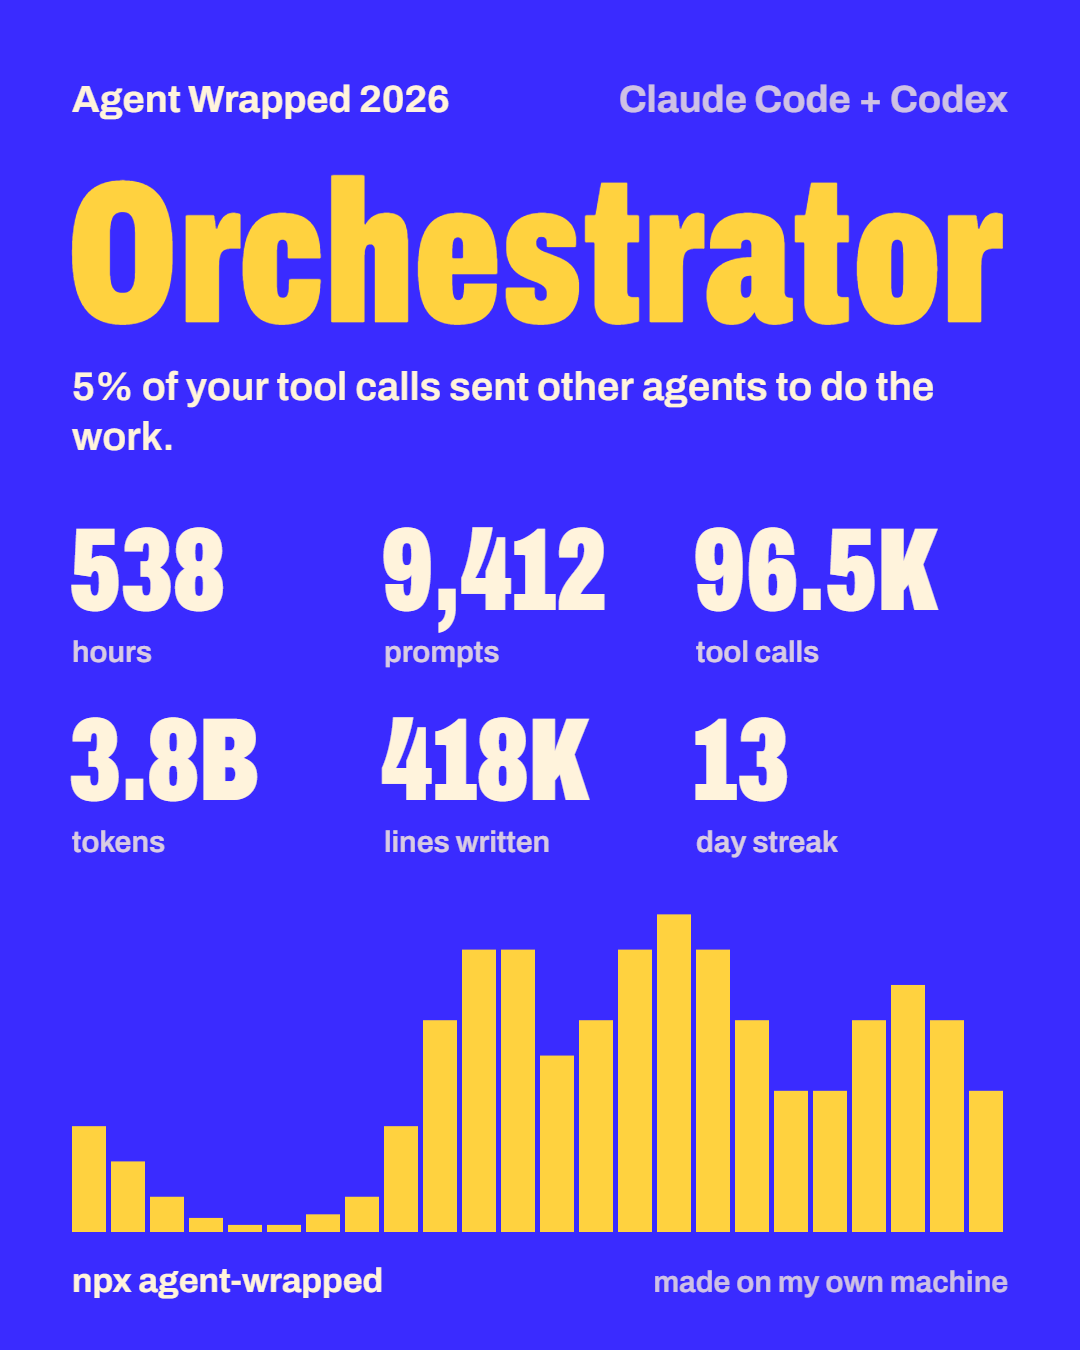
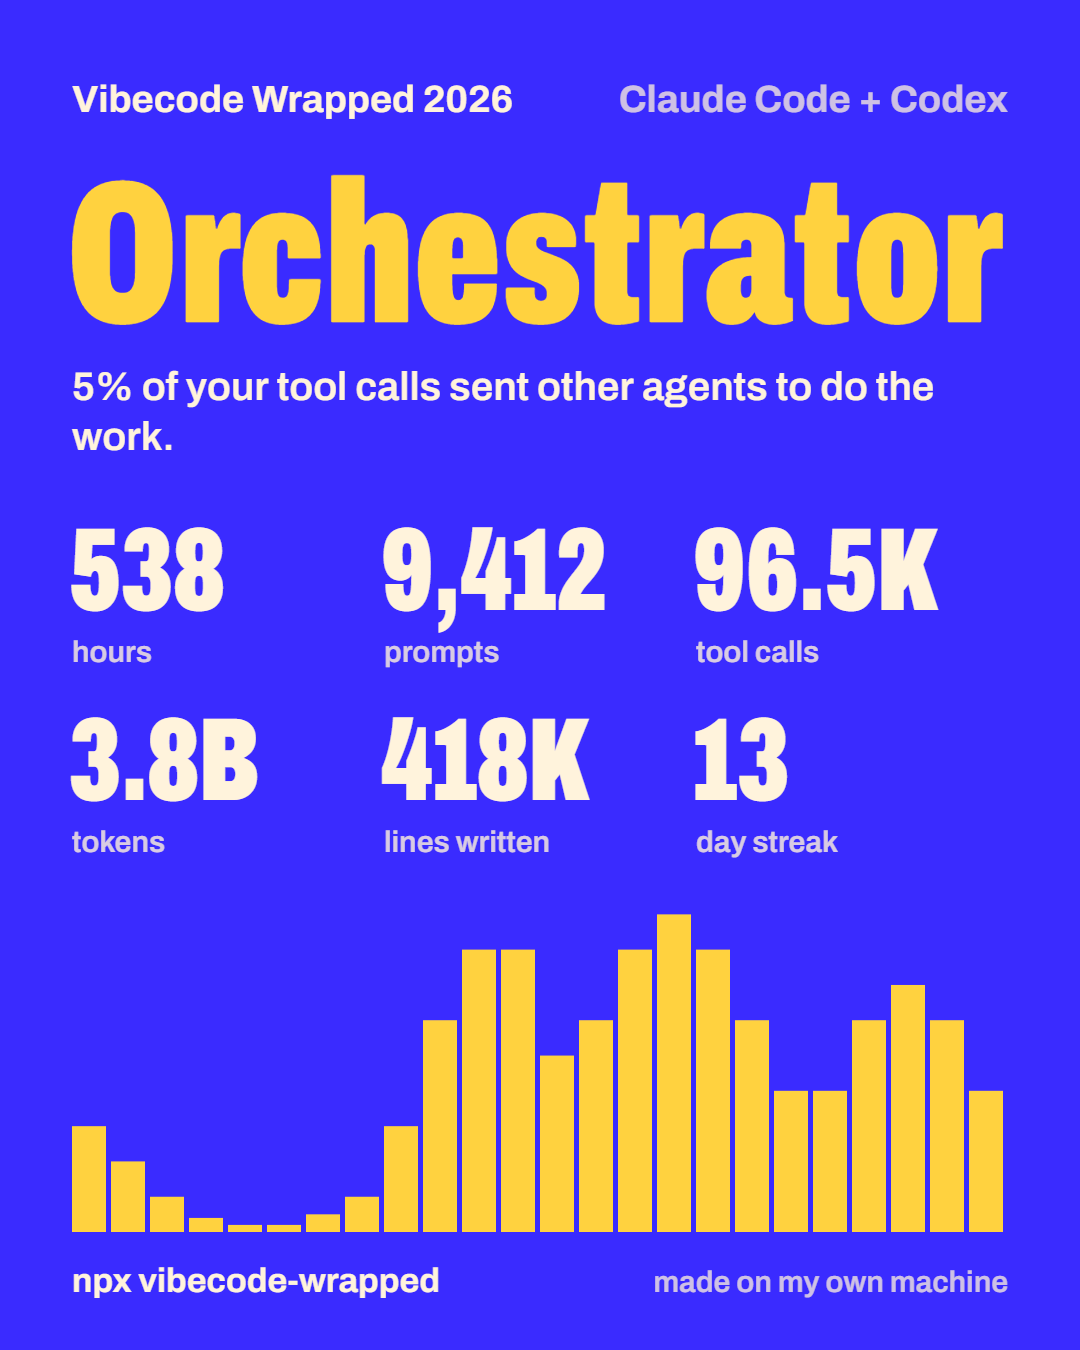
Rename to vibecode-wrapped
npm refuses vibe-wrapped as too similar to the existing vibewrapped
package. Rename the package, command and card titles, and regenerate
the share image in the README.

Changed region(s): [[0.0611, 0.0622, 0.4889, 0.0933], [0.1222, 0.9333, 0.4278, 0.9644]]

diff --git a/ui/index.html b/ui/index.html
@@ -3,7 +3,7 @@
 <head>
 <meta charset="utf-8">
 <meta name="viewport" content="width=device-width, initial-scale=1, viewport-fit=cover">
-<title>Vibe Wrapped</title>
+<title>Vibecode Wrapped</title>
 <link rel="icon" href="data:,">
 <style>
 @font-face {
@@ -228,12 +228,12 @@ const TEXT = {
     hoursAria: "Activity by hour of day",
     calAria: "Active days calendar",
     days: ["Sunday", "Monday", "Tuesday", "Wednesday", "Thursday", "Friday", "Saturday"],
-    share: { aria: "Share your card", image: "Your Vibe Wrapped card", download: "Download image", copy: "Copy image", post: "Post on X", again: "Watch again",
+    share: { aria: "Share your card", image: "Your Vibecode Wrapped card", download: "Download image", copy: "Copy image", post: "Post on X", again: "Watch again",
       note: "The image has totals only: no file names, project names or prompts.", downloaded: "Downloaded", copied: "Copied", copyFailed: "Copy failed, use Download",
       stats: ["hours", "prompts", "tool calls", "tokens", "lines written", "day streak"], footer: "made on my own machine" },
-    post: (h, p, k) => `My ${isYear ? W.label : "time"} with coding agents: ${persona().full}.\n\n${h} hours, ${p} prompts, ${k} tokens.\n\nGet yours: npx vibe-wrapped`,
+    post: (h, p, k) => `My ${isYear ? W.label : "time"} with coding agents: ${persona().full}.\n\n${h} hours, ${p} prompts, ${k} tokens.\n\nGet yours: npx vibecode-wrapped`,
     slides: (a) => [
-      { lead: "Vibe Wrapped", big: isYear ? W.label : "All time",
+      { lead: "Vibecode Wrapped", big: isYear ? W.label : "All time",
         after: `Your ${isYear ? "year" : "time"} with ${a}, read from the logs on this computer.`,
         note: "Nothing was uploaded. This page is served from your own machine." },
       { lead: "You spent",
@@ -263,12 +263,12 @@ const TEXT = {
     hoursAria: "Günün saatlerine göre etkinlik",
     calAria: "Aktif günler takvimi",
     days: ["Pazar", "Pazartesi", "Salı", "Çarşamba", "Perşembe", "Cuma", "Cumartesi"],
-    share: { aria: "Kartını paylaş", image: "Vibe Wrapped kartın", download: "Görseli indir", copy: "Görseli kopyala", post: "X'te paylaş", again: "Baştan izle",
+    share: { aria: "Kartını paylaş", image: "Vibecode Wrapped kartın", download: "Görseli indir", copy: "Görseli kopyala", post: "X'te paylaş", again: "Baştan izle",
       note: "Görselde yalnız toplamlar var; dosya adı, proje adı ya da prompt yok.", downloaded: "İndirildi", copied: "Kopyalandı", copyFailed: "Kopyalanamadı, indirmeyi dene",
       stats: ["saat", "prompt", "araç çağrısı", "token", "satır kod", "günlük seri"], footer: "kendi bilgisayarımda üretildi" },
-    post: (h, p, k) => `Kodlama ajanlarıyla ${isYear ? W.label + " yılım" : "tüm zamanlarım"}: ${persona().full}.\n\n${h} saat, ${p} prompt, ${k} token.\n\nSeninkini gör: npx vibe-wrapped`,
+    post: (h, p, k) => `Kodlama ajanlarıyla ${isYear ? W.label + " yılım" : "tüm zamanlarım"}: ${persona().full}.\n\n${h} saat, ${p} prompt, ${k} token.\n\nSeninkini gör: npx vibecode-wrapped`,
     slides: (a) => [
-      { lead: "Vibe Wrapped", big: isYear ? W.label : "Tüm zamanlar",
+      { lead: "Vibecode Wrapped", big: isYear ? W.label : "Tüm zamanlar",
         after: `${a} ile geçen ${isYear ? "yılın" : "zamanın"}, bu bilgisayardaki kayıtlardan okundu.`,
         note: "Hiçbir şey yüklenmedi. Bu sayfa kendi bilgisayarından açılıyor." },
       { lead: "Ajanlarla kod yazarak geçirdiğin süre",
@@ -484,7 +484,7 @@ async function drawCard() {
   ctx.fillStyle = fg;
   ctx.font = text(38, 700);
   ctx.textAlign = "left";
-  ctx.fillText(`Vibe Wrapped ${isYear ? W.label : ""}`.trim(), M, 112);
+  ctx.fillText(`Vibecode Wrapped ${isYear ? W.label : ""}`.trim(), M, 112);
   ctx.textAlign = "right";
   ctx.globalAlpha = 0.75;
   ctx.fillText(L().agents.replace(/ (and|ve) /, " + "), WIDTH - M, 112);
@@ -549,7 +549,7 @@ async function drawCard() {
 
   ctx.fillStyle = fg;
   ctx.font = text(34, 700);
-  ctx.fillText("npx vibe-wrapped", M, HEIGHT - 58);
+  ctx.fillText("npx vibecode-wrapped", M, HEIGHT - 58);
   ctx.textAlign = "right";
   ctx.globalAlpha = 0.75;
   ctx.font = text(30);
@@ -569,7 +569,7 @@ function bindShare() {
     const button = e.currentTarget;
     const a = document.createElement("a");
     a.href = URL.createObjectURL(await blob());
-    a.download = `vibe-wrapped-${W.label.replace(/\s+/g, "-")}.png`;
+    a.download = `vibecode-wrapped-${W.label.replace(/\s+/g, "-")}.png`;
     a.click();
     URL.revokeObjectURL(a.href);
     flash(button, L().share.downloaded);

diff --git a/src/i18n.ts b/src/i18n.ts
@@ -56,9 +56,9 @@ export function personaText(id: string, value: number, lang: Lang): PersonaText 
 
 export const MESSAGES = {
   en: {
-    help: `vibe-wrapped - your year with AI coding agents, wrapped
+    help: `vibecode-wrapped - your year with AI coding agents, wrapped
 
-Usage: npx vibe-wrapped [options]
+Usage: npx vibecode-wrapped [options]
 
   --year <yyyy>   Year to wrap (default: current year)
   --all           All time instead of one year
@@ -79,8 +79,8 @@ Everything runs locally. Nothing leaves your machine.`,
     noActivity: (period: string) => `No activity found for ${period}. Try --all or --year <yyyy>.`,
     anyYear: "any year",
     allTime: "all time",
-    ready: (url: string) => `Your Vibe Wrapped is ready: ${url}\n  Served from this machine only. Press Ctrl+C to stop.`,
-    failed: (m: string) => `vibe-wrapped failed: ${m}`,
+    ready: (url: string) => `Your Vibecode Wrapped is ready: ${url}\n  Served from this machine only. Press Ctrl+C to stop.`,
+    failed: (m: string) => `vibecode-wrapped failed: ${m}`,
     summary: {
       time: "Time coding",
       hoursAcross: (h: string, d: string) => `${h} hours across ${d} days`,
@@ -104,9 +104,9 @@ Everything runs locally. Nothing leaves your machine.`,
     },
   },
   tr: {
-    help: `vibe-wrapped - yapay zekâ kodlama ajanlarıyla geçen yılının özeti
+    help: `vibecode-wrapped - yapay zekâ kodlama ajanlarıyla geçen yılının özeti
 
-Kullanım: npx vibe-wrapped [seçenekler]
+Kullanım: npx vibecode-wrapped [seçenekler]
 
   --year <yyyy>   Özetlenecek yıl (varsayılan: bu yıl)
   --all           Tek bir yıl yerine tüm zamanlar
@@ -127,8 +127,8 @@ Her şey bilgisayarında çalışır. Hiçbir veri dışarı çıkmaz.`,
     noActivity: (period: string) => `${period} için etkinlik bulunamadı. --all ya da --year <yyyy> dene.`,
     anyYear: "Hiçbir yıl",
     allTime: "tüm zamanlar",
-    ready: (url: string) => `Vibe Wrapped hazır: ${url}\n  Yalnız bu bilgisayardan sunuluyor. Durdurmak için Ctrl+C'ye bas.`,
-    failed: (m: string) => `vibe-wrapped çalışamadı: ${m}`,
+    ready: (url: string) => `Vibecode Wrapped hazır: ${url}\n  Yalnız bu bilgisayardan sunuluyor. Durdurmak için Ctrl+C'ye bas.`,
+    failed: (m: string) => `vibecode-wrapped çalışamadı: ${m}`,
     summary: {
       time: "Kodlama süresi",
       hoursAcross: (h: string, d: string) => `${h} saat, ${d} güne yayıldı`,

diff --git a/src/cli.ts b/src/cli.ts
@@ -86,7 +86,7 @@ function printSummary(w: Wrapped, showNames: boolean) {
   const label = /^\d{4}$/.test(w.label) ? w.label : msg().allTime;
   const p = w.persona.text[lang];
   console.log(
-    ["", `  Vibe Wrapped ${label}`, `  ${p.title}: ${p.reason}`, "", ...rows.map(([k, v]) => `  ${k.padEnd(width)}${v}`)].join("\n") + "\n",
+    ["", `  Vibecode Wrapped ${label}`, `  ${p.title}: ${p.reason}`, "", ...rows.map(([k, v]) => `  ${k.padEnd(width)}${v}`)].join("\n") + "\n",
   );
 }
 

diff --git a/README.tr.md b/README.tr.md
@@ -1,11 +1,11 @@
-# vibe-wrapped
+# vibecode-wrapped
 
 [English](README.md) · **Türkçe**
 
 Yapay zekâ kodlama ajanlarıyla geçen yılının özeti. Tek bir komut, bilgisayarındaki Claude Code ve Codex kayıtlarını okur; bunları bir dizi karta ve paylaşılabilir bir görsele dönüştürür.
 
 ```bash
-npx vibe-wrapped
+npx vibecode-wrapped
 ```
 
 <p>
@@ -15,7 +15,7 @@ npx vibe-wrapped
   <img src="docs/card-persona.png" width="24%" alt="Kart: kodlama kişiliğin">
 </p>
 
-Ekran görüntüleri örnek veriyle hazırlandı. Kayıt olmadan aynı kartları görmek için `npx vibe-wrapped --demo` çalıştır.
+Ekran görüntüleri örnek veriyle hazırlandı. Kayıt olmadan aynı kartları görmek için `npx vibecode-wrapped --demo` çalıştır.
 
 ## Neler var
 
@@ -73,8 +73,8 @@ Node.js 18 ya da daha yenisi gerekir.
 ## Geliştirme
 
 ```bash
-git clone https://github.com/BerkanAtik/vibe-wrapped
-cd vibe-wrapped
+git clone https://github.com/BerkanAtik/vibecode-wrapped
+cd vibecode-wrapped
 npm install
 npm run build
 npm test

diff --git a/README.md b/README.md
@@ -1,11 +1,11 @@
-# vibe-wrapped
+# vibecode-wrapped
 
 **English** · [Türkçe](README.tr.md)
 
 Your year with AI coding agents, wrapped. One command reads the Claude Code and Codex logs already on your computer and turns them into a set of cards and a shareable image.
 
 ```bash
-npx vibe-wrapped
+npx vibecode-wrapped
 ```
 
 <p>
@@ -15,7 +15,7 @@ npx vibe-wrapped
   <img src="docs/card-persona.png" width="24%" alt="Card: your coding persona">
 </p>
 
-The screenshots use sample data. Run `npx vibe-wrapped --demo` to see the same cards without any logs.
+The screenshots use sample data. Run `npx vibecode-wrapped --demo` to see the same cards without any logs.
 
 ## What you get
 
@@ -73,8 +73,8 @@ The wrap covers what is still on disk. Claude Code removes old transcripts after
 ## Development
 
 ```bash
-git clone https://github.com/BerkanAtik/vibe-wrapped
-cd vibe-wrapped
+git clone https://github.com/BerkanAtik/vibecode-wrapped
+cd vibecode-wrapped
 npm install
 npm run build
 npm test
